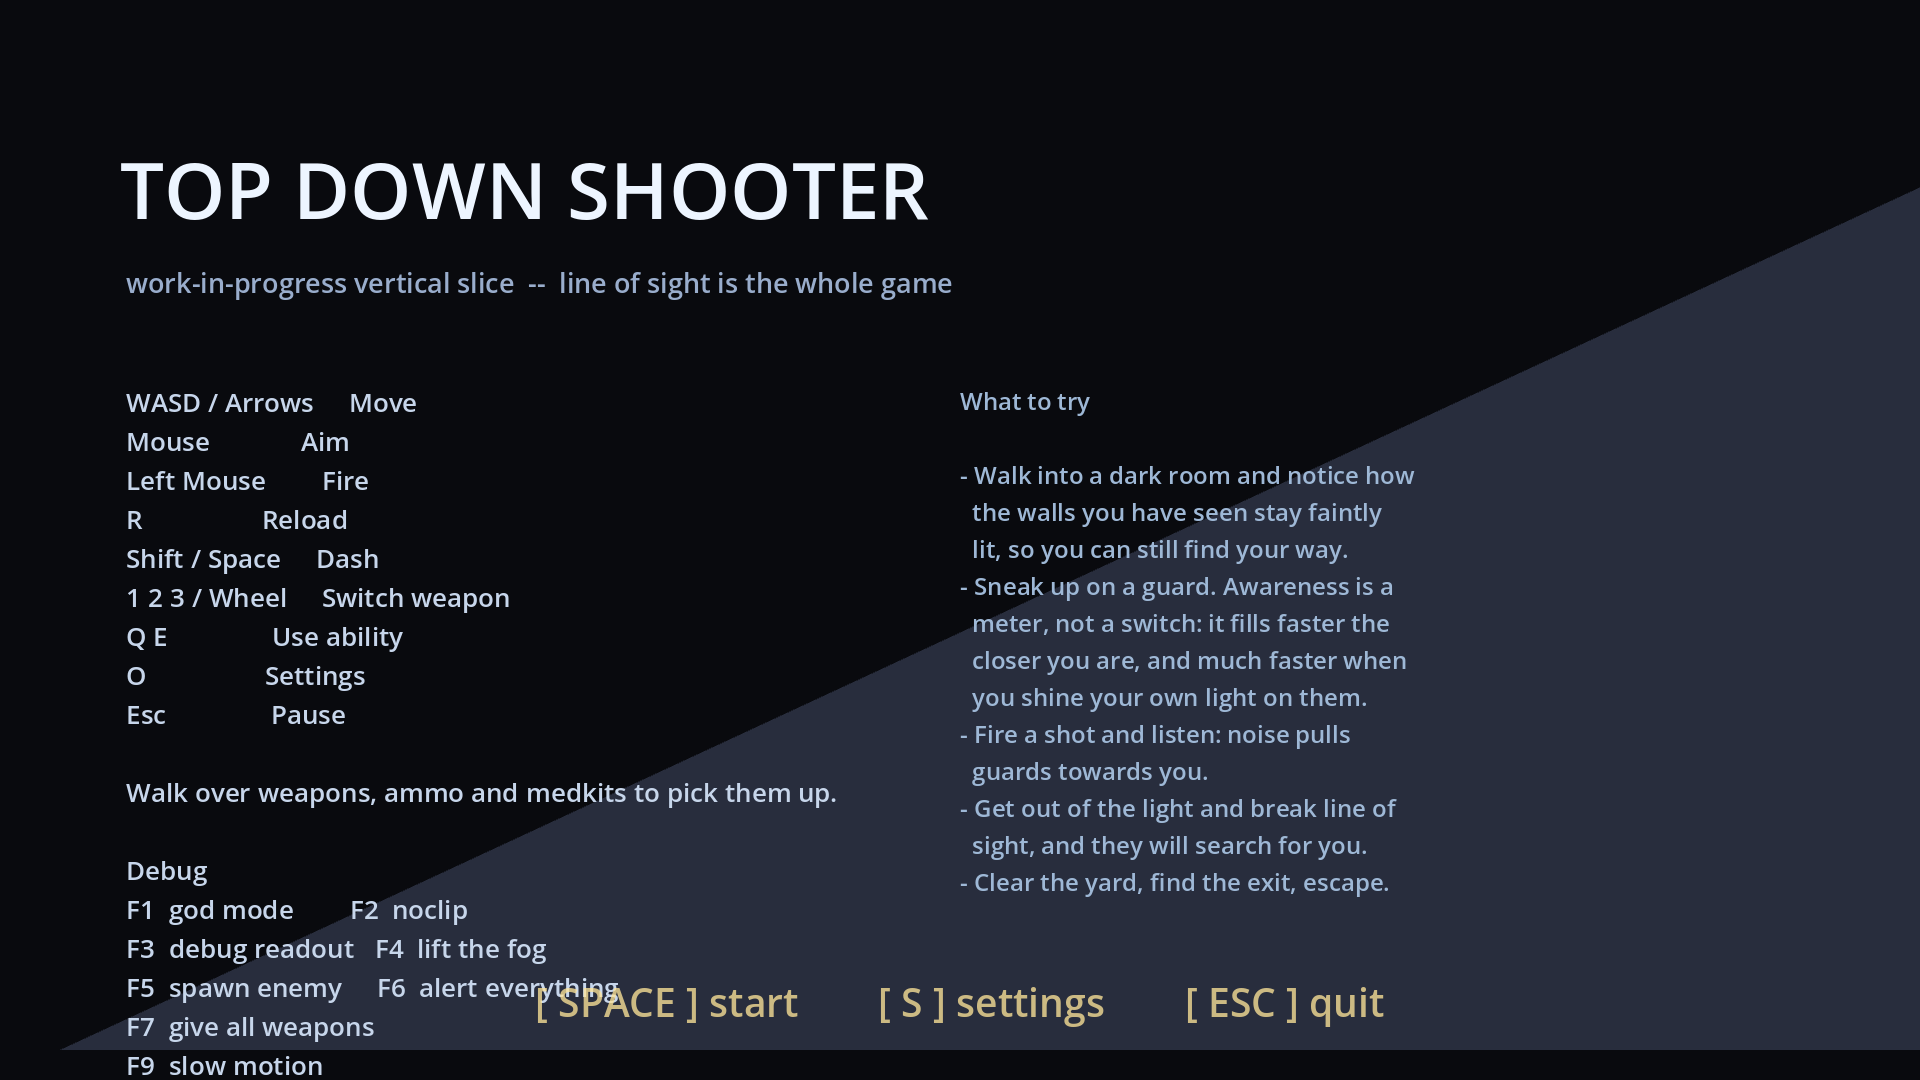
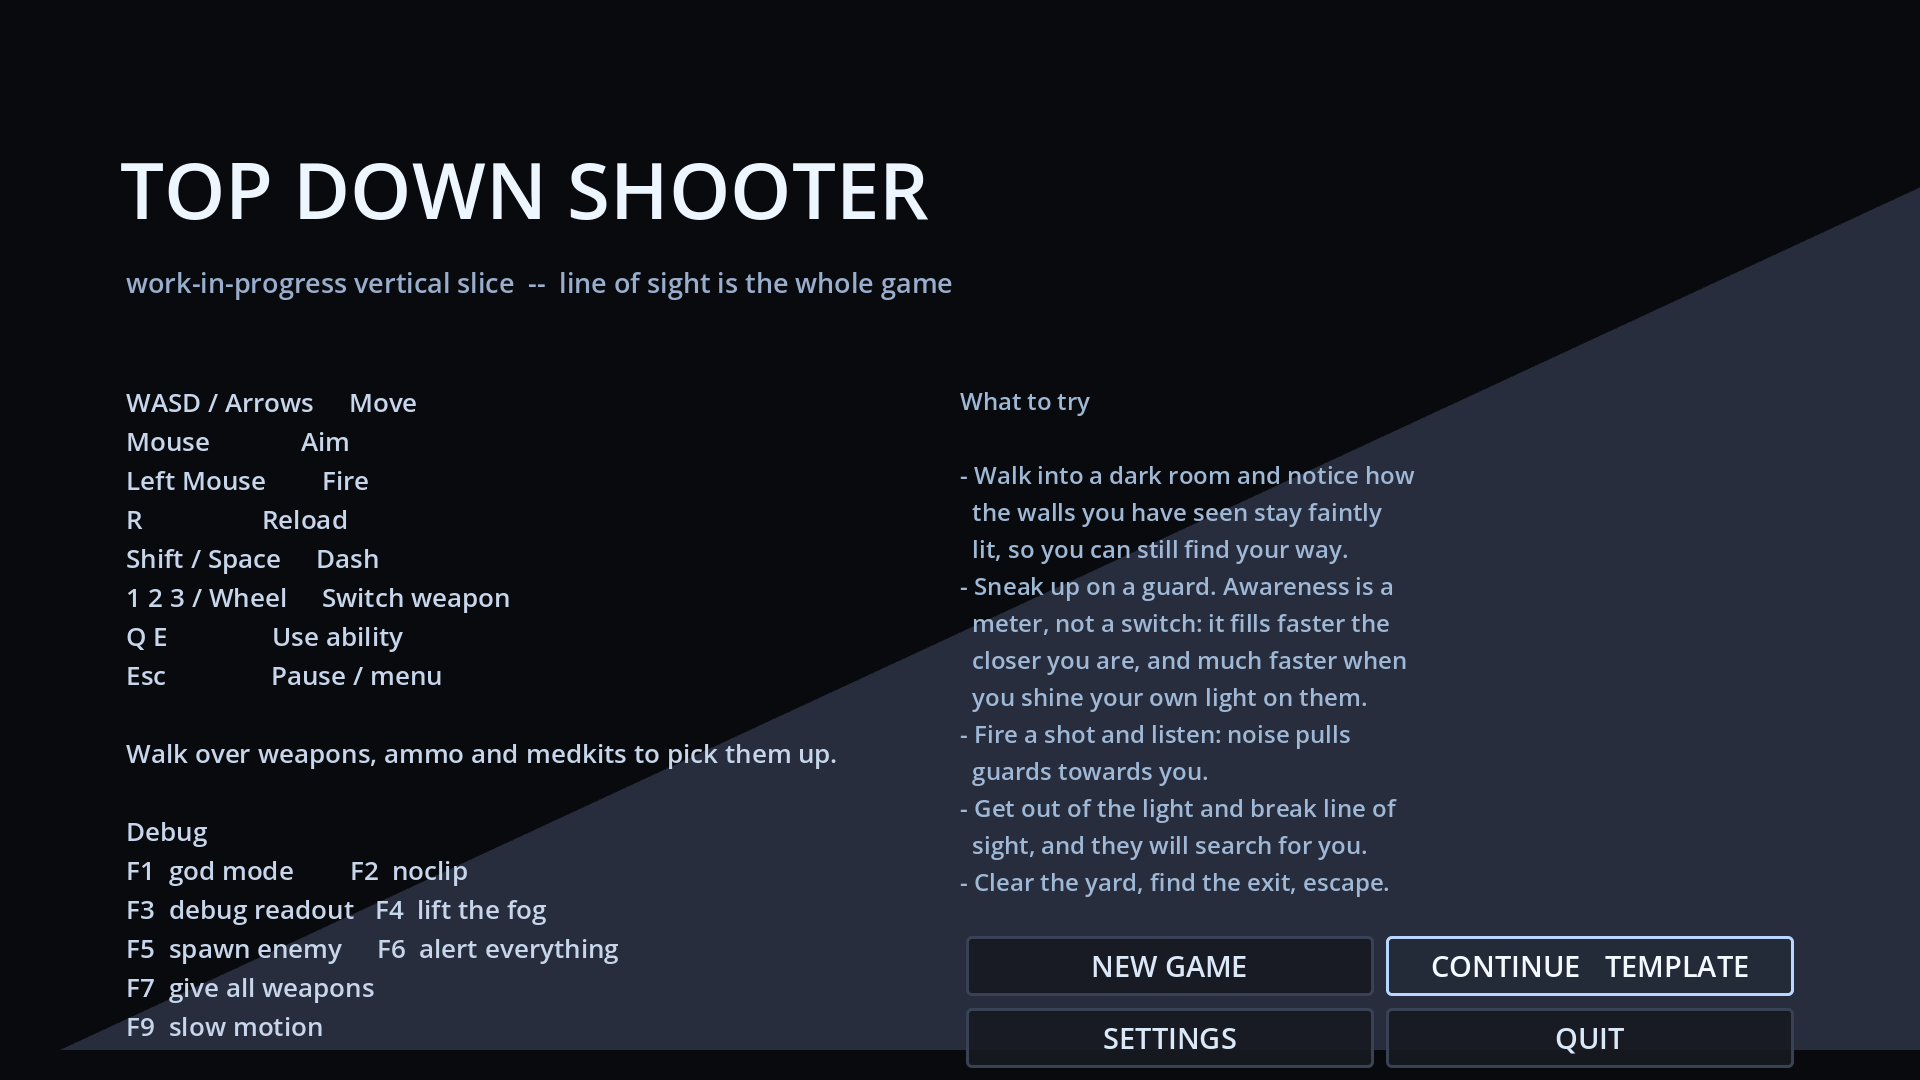
bug fixing with menus and enemy pickup

Changed region(s): [[0.0625, 0.6111, 0.4375, 1.0], [0.4688, 0.8556, 0.9375, 1.0]]

diff --git a/docs/WIP_TASKS.md b/docs/WIP_TASKS.md
@@ -185,10 +185,24 @@ maps, the editor's own error log) rather than guessed at.
 - The levels are still first drafts: cover and lamp placement will matter more than
   any code change from here.
 
+## Phase 15 — Loot drop fix
+
+- [x] Enemy loot could not be picked up. `Enemy._drop_loot()` built a bare `Pickup.new()`
+      instead of instancing `pickup.tscn`, so the drop had **no collision shape** and Area2D's
+      default layers (both "world") — it rendered, glowed and pulsed exactly like a real pickup
+      while being impossible to walk over. It now instantiates the authored scene
+- [x] `Pickup._ready()` guarantees its own collision shape and the pickup/player layers, so any
+      future code-spawned pickup is collectable instead of silently inert
+- [x] Added a `loot` probe scenario: kill a shotgun-carrying enemy while standing on the corpse,
+      report every pickup's shape and layers, and check the shotgun actually lands in the slots
+
 ## Phase 14 — Menus and a checkpoint
 
 - [x] The title screen is a real menu: New Game / Continue / Settings / Quit, driven by keyboard
-      *or* mouse, with Continue greyed out when there is nothing to resume
+      *or* mouse, with Continue greyed out when there is nothing to resume. It **opens on
+      Continue** when a checkpoint exists, so Space on reflex resumes instead of starting over;
+      if the checkpoint vanishes while Continue has focus, focus moves to New Game rather than
+      being dropped (disabling the focused Control clears focus, leaving the keyboard dead)
 - [x] Pause menu: Settings / Continue / Quit to Menu, opening on Continue so Enter resumes
 - [x] `Progress`: a single checkpoint (`user://progress.cfg`) holding the level and the loadout,
       written on level entry, refreshed on pause (the moment before quitting to the menu), and

diff --git a/docs/DESIGN_NOTES.md b/docs/DESIGN_NOTES.md
@@ -108,6 +108,12 @@ Also worth knowing:
   a player teleported, respawned or dropped onto them.
 - Swapping scenes from inside a physics callback is not allowed; the level loader
   defers `change_scene_to_file`.
+- **A class with both a scene and a script can be built two ways, and only one of them is
+  complete.** `Pickup.new()` produces a bare `Area2D` with no collision shape and the default
+  layers, while `pickup.tscn` carries both -- so enemy loot rendered perfectly and could never
+  be collected. Either always instance the scene, or have the script guarantee what it needs in
+  `_ready`; `Pickup` now does the latter so neither path can be wrong. A linter-style check in
+  the probe (shape + layer + mask per pickup) is what makes this visible.
 - `set_anchors_preset(PRESET_FULL_RECT, false)` does **not** make a `Control` fill its
   parent. It sets the anchors and then recomputes the offsets to keep the control's
   *current* size, which for a freshly created control is zero -- so a full-screen overlay
